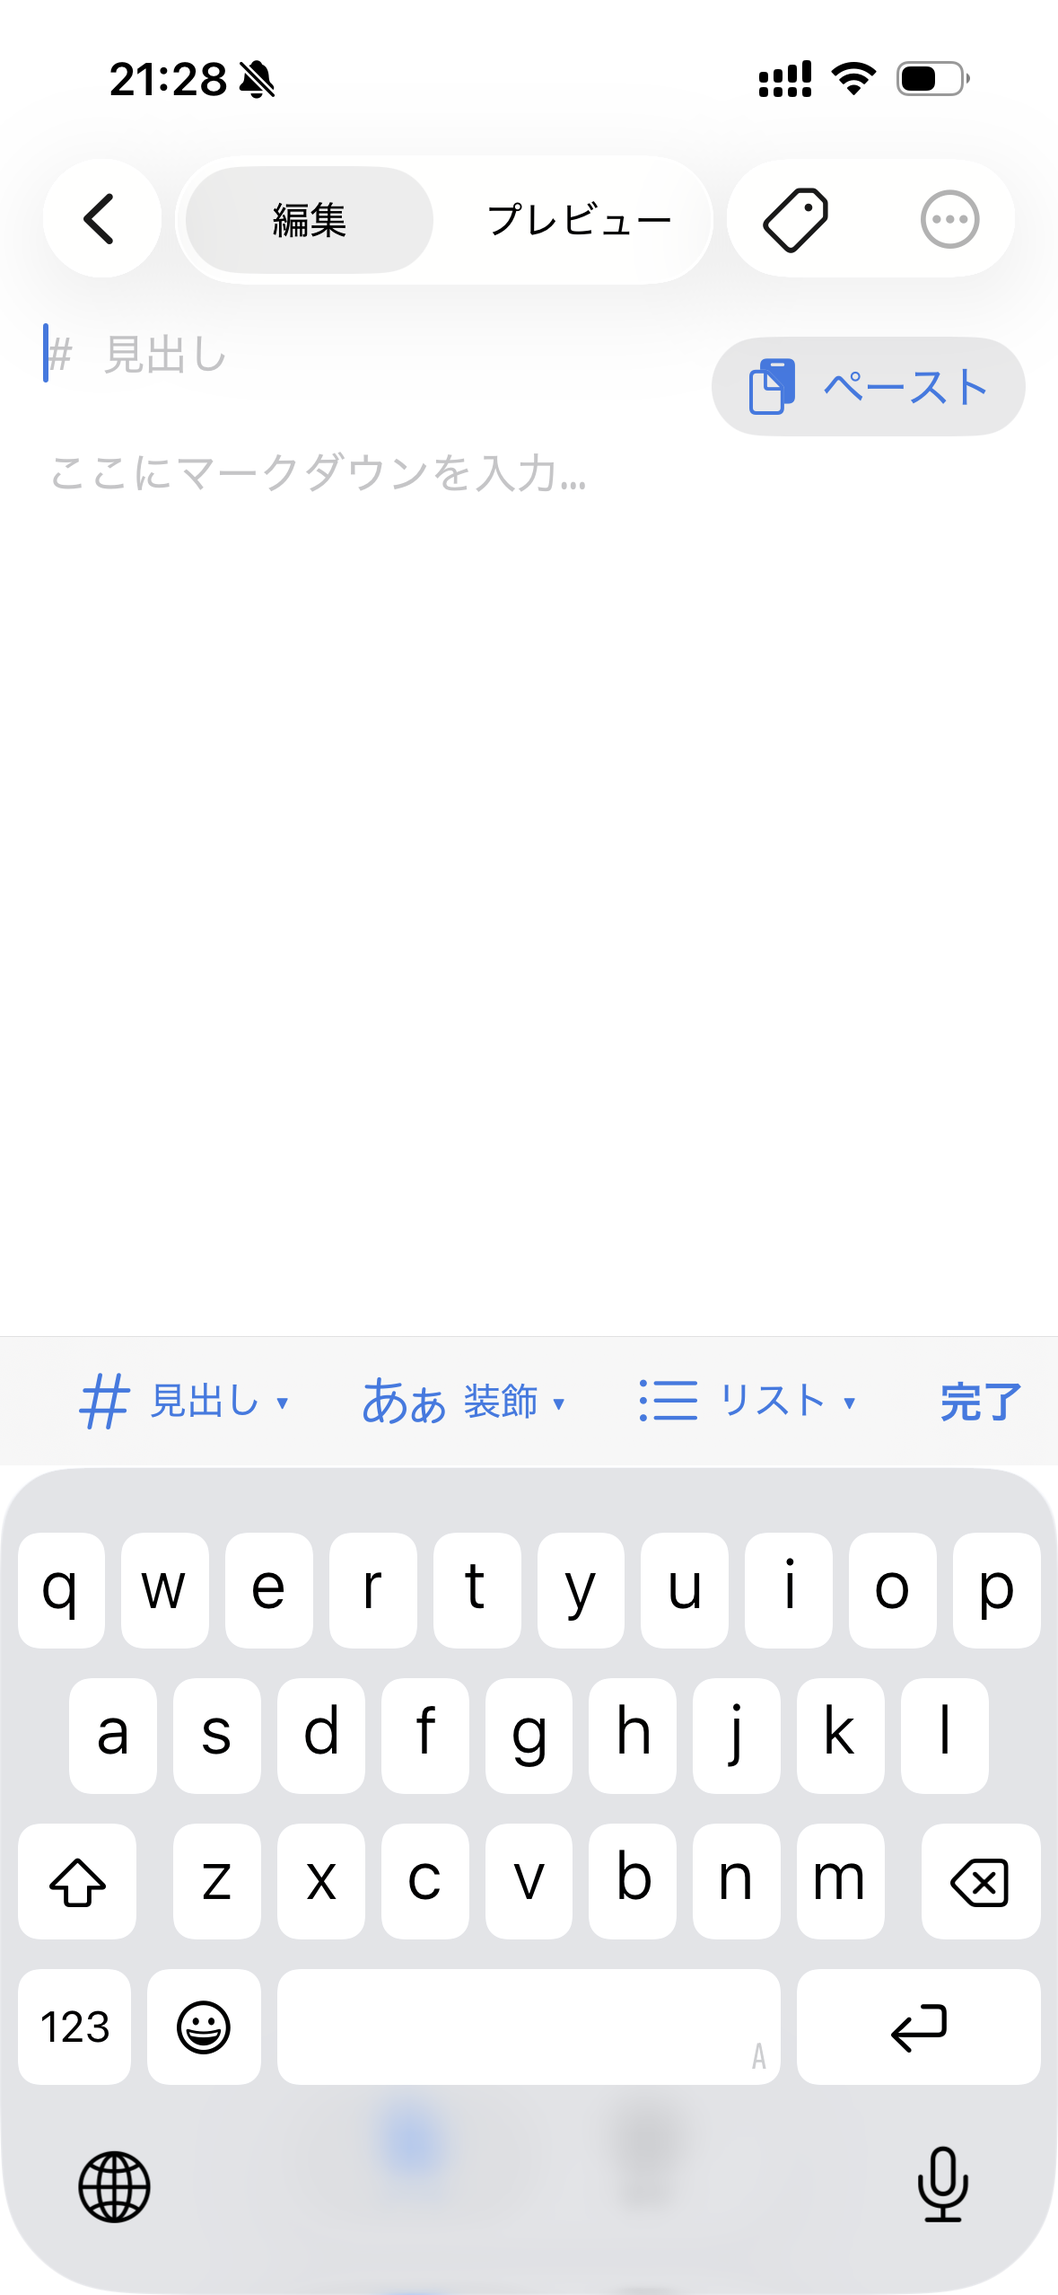
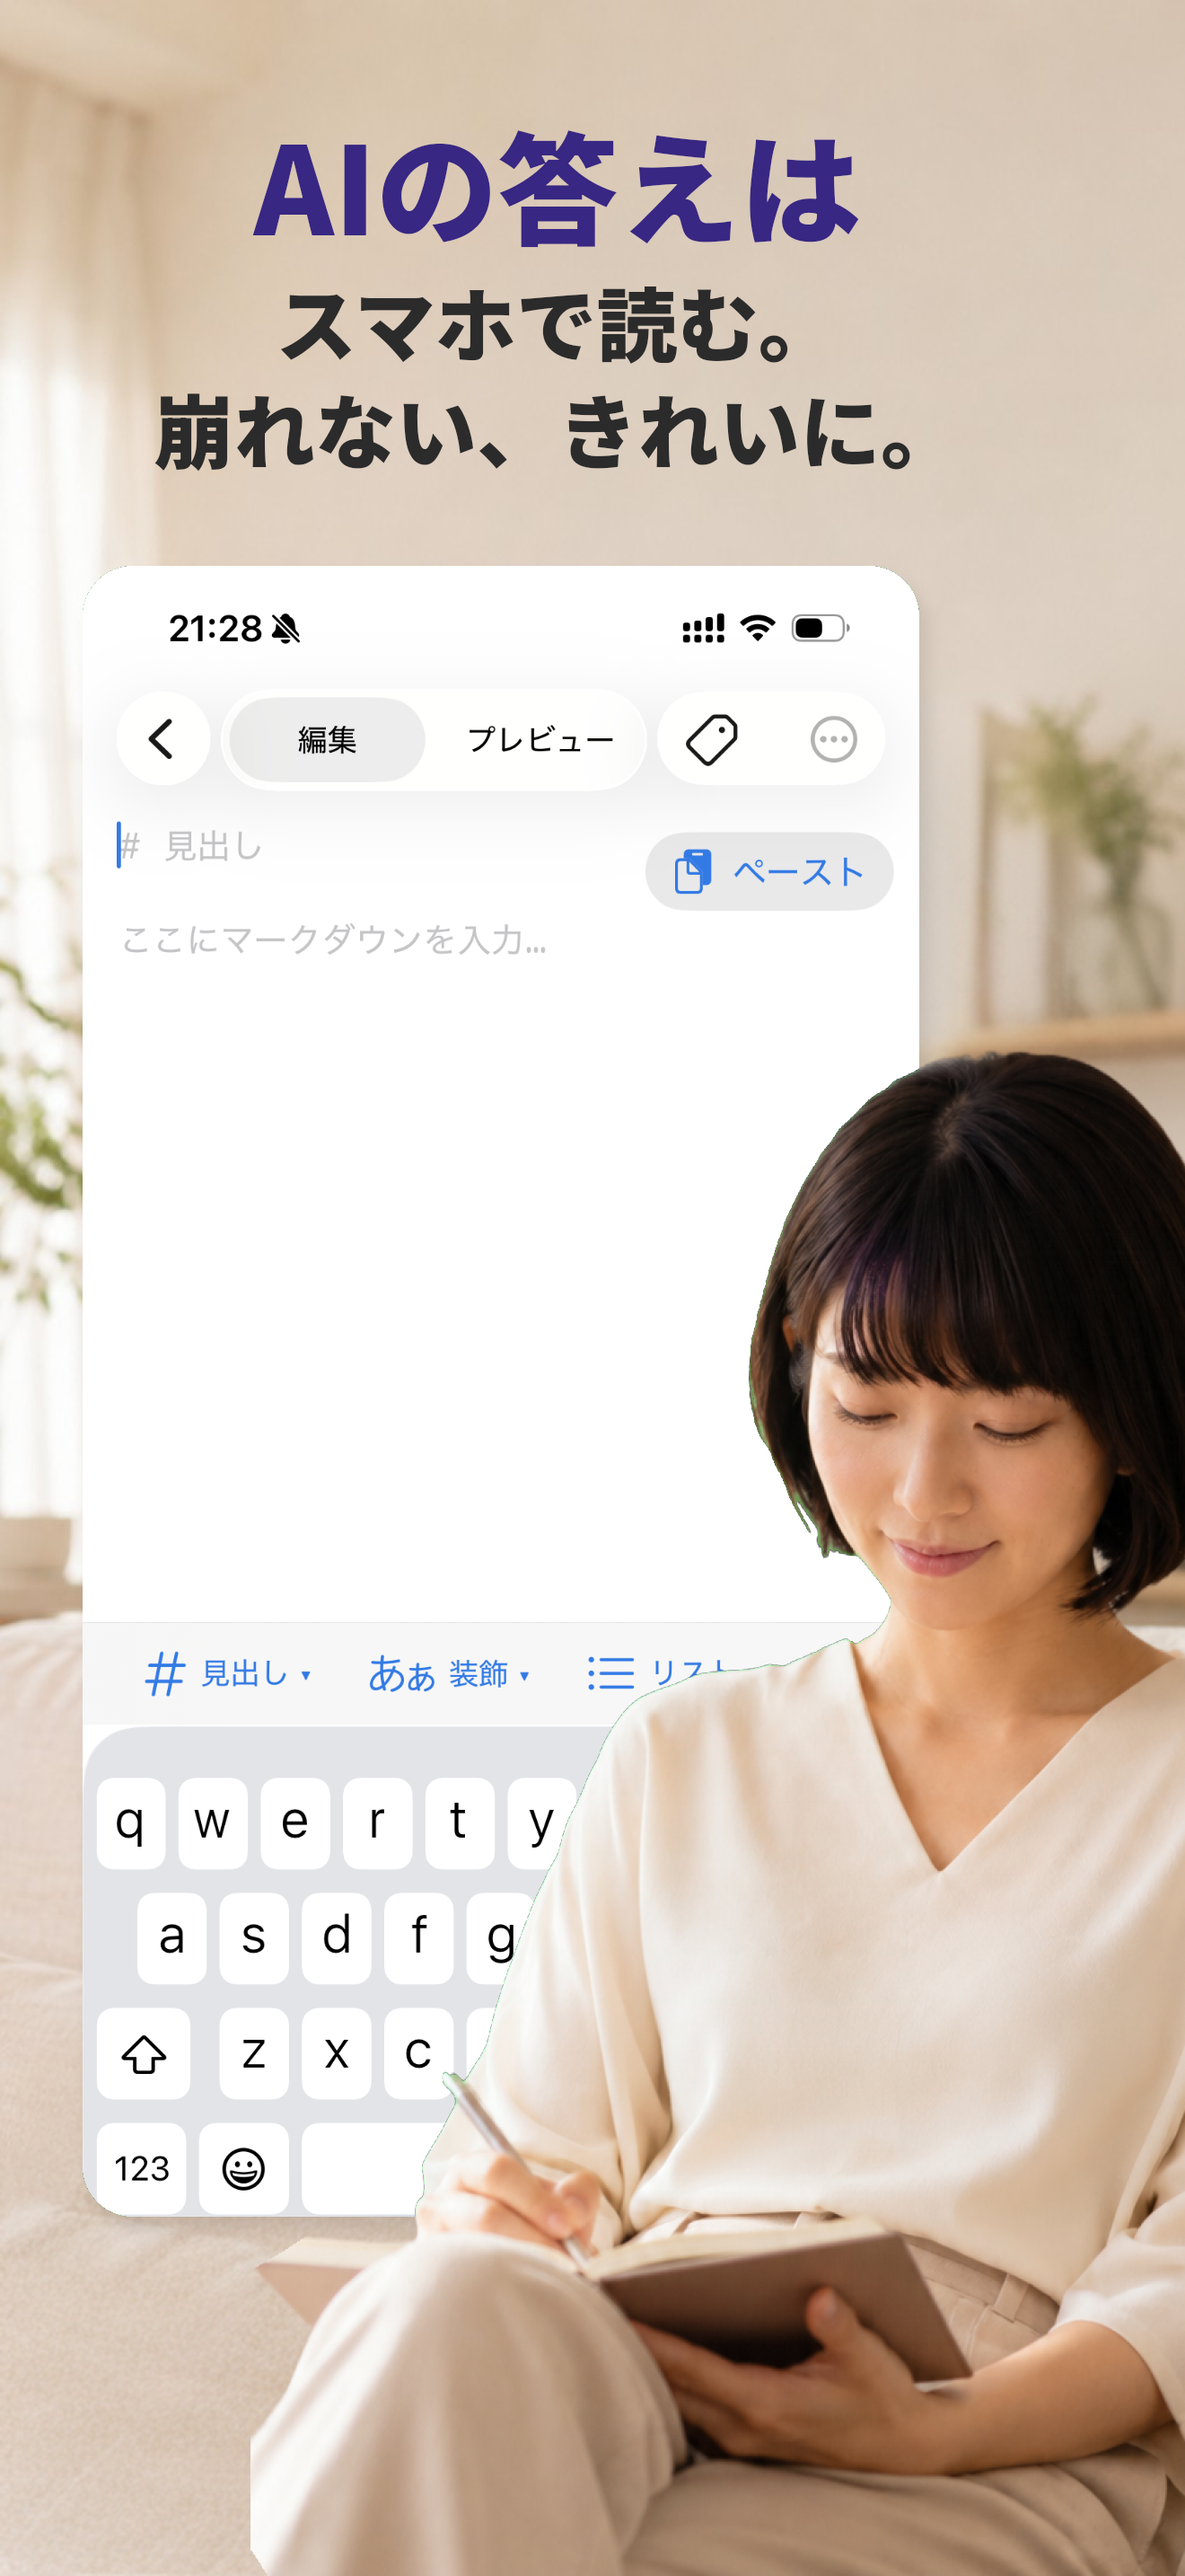
✨ feat(app): update MarkPad and SeeHue LP content and screenshots
Replace screenshot assets with higher-resolution images (1320×2868)
and adjust Shot component sizing (270px / 68vw) and remove border from
image style to match new assets.

MarkPad: swap hero screenshot from preview to editor screen, and update
first feature card to highlight the preview experience with revised copy.

SeeHue: expand FEATURES from 2 cards to 5 (SIMULATE & SHARE, INSPECT,
COMPARE, SELF-CHECK), remove the separate "MORE" text-card section, and
add 3 new screenshots (screen3–5) to cover the new feature cards.

diff --git a/app/seehue/page.tsx b/app/seehue/page.tsx
@@ -46,14 +46,14 @@ function Shot({
   priority?: boolean;
 }) {
   return (
-    <div className="w-[260px] max-w-[66vw] shrink-0">
+    <div className="w-[270px] max-w-[68vw] shrink-0">
       <Image
         src={`/contents/seehue/screen${n}.png`}
         alt={label}
-        width={1179}
-        height={2556}
+        width={1320}
+        height={2868}
         priority={priority}
-        className="h-auto w-full rounded-[26px] border border-[#ECE7DE] shadow-[0_20px_48px_rgba(42,46,51,0.16)]"
+        className="h-auto w-full rounded-[26px] shadow-[0_20px_48px_rgba(42,46,51,0.16)]"
       />
     </div>
   );
@@ -83,33 +83,32 @@ interface Feature {
 
 const FEATURES: Feature[] = [
   {
-    badge: "CORRECT",
-    heading: "見分けにくい色を、くっきりと。",
-    desc: "カメラの映像にリアルタイムで補正をかけ、見分けにくい色のコントラストを強調します。写真を読み込んで同じ補正をかけ、保存・共有することもできます。",
-    shot: 1,
-    alt: "補正カメラの画面",
-  },
-  {
-    badge: "SIMULATE",
-    heading: "見え方を、そのまま再現。",
-    desc: "「そのまま／補正／シミュレート」をワンタップで切り替え。色覚特性での見え方をシミュレートして、自分や相手にどう映るかを確かめられます。",
+    badge: "SIMULATE & SHARE",
+    heading: "見え方を、そのまま伝える。",
+    desc: "「そのまま／補正／シミュレート」をワンタップで切り替え。見えている色をそのまま再現して写真にすれば、家族や友だちに自分の見え方を伝えられます。",
     shot: 2,
-    alt: "色覚シミュレートの画面",
-  },
-];
-
-const MORE = [
-  {
-    k: "色を調べる",
-    v: "画面中央の色を、色名（赤・青緑など）と明るさ・鮮やかさで表示。保存した基準色とリアルタイムで照合でき、服や小物の色合わせに。",
+    alt: "見え方のシミュレートとシェアの画面",
   },
   {
-    k: "色覚セルフチェック",
-    v: "モザイク状の色を見分けるスライダー方式で、赤緑・青黄それぞれの見分けやすさを測定。結果に合わせて補正の強さが自動調整されます。",
+    badge: "INSPECT",
+    heading: "この色は、なに色？",
+    desc: "画面中央に写ったものの色を、色名（赤・青緑など）と明るさ・鮮やかさで表示。近い色の候補もわかるので、色の判断に迷ったときの相棒になります。",
+    shot: 3,
+    alt: "色名を調べるカラーピッカーの画面",
   },
   {
-    k: "パーソナライズ",
-    v: "1型（P型）・2型（D型）・3型（T型）に対応し、軸ごとに強さを調整。人や環境ごとに複数のプロファイルを作って切り替えられます。",
+    badge: "COMPARE",
+    heading: "保存して、その場で見くらべ。",
+    desc: "気になった色を保存しておけば、基準の色とカメラ映像をリアルタイムで照合。「同じ／似ている／ちがう」をその場で確認でき、服や小物の色合わせに便利です。",
+    shot: 4,
+    alt: "保存した色と見くらべる画面",
+  },
+  {
+    badge: "SELF-CHECK",
+    heading: "見分けやすさを、チェック。",
+    desc: "赤緑・青黄それぞれの見分けやすさをセルフチェックで測定し、結果に合わせて補正の強さを自動調整。1型・2型・3型に対応し、プロファイルも作れます。",
+    shot: 5,
+    alt: "色覚セルフチェックの画面",
   },
 ];
 
@@ -192,30 +191,6 @@ export default function Page() {
           </section>
         ))}
       </div>
-
-      {/* できること（テキストカード） */}
-      <section className="border-t border-[#ECE7DE] bg-white">
-        <div className="mx-auto max-w-[960px] px-5 py-16">
-          <p className="mb-10 text-center text-[15px] tracking-[0.04em] text-[#6E7378]">
-            まだまだ、これだけ。
-          </p>
-          <div className="flex flex-wrap justify-center gap-4">
-            {MORE.map((item) => (
-              <div
-                key={item.k}
-                className="min-w-[240px] flex-[1_1_260px] rounded-[16px] border border-[#ECE7DE] bg-[#FAF7F2] px-6 py-7"
-              >
-                <p className="mb-2 text-[16px] font-bold text-[#2A2E33]">
-                  {item.k}
-                </p>
-                <p className="text-[14px] leading-[1.85] text-[#6E7378]">
-                  {item.v}
-                </p>
-              </div>
-            ))}
-          </div>
-        </div>
-      </section>
 
       {/* CTA */}
       <section className="border-t border-[#ECE7DE] bg-[#FAF7F2] px-5 py-20 text-center">

diff --git a/app/markpad/page.tsx b/app/markpad/page.tsx
@@ -46,14 +46,14 @@ function Shot({
   priority?: boolean;
 }) {
   return (
-    <div className="w-[260px] max-w-[66vw] shrink-0">
+    <div className="w-[270px] max-w-[68vw] shrink-0">
       <Image
         src={`/contents/markpad/screen${n}.png`}
         alt={label}
-        width={1179}
-        height={2556}
+        width={1320}
+        height={2868}
         priority={priority}
-        className="h-auto w-full rounded-[26px] border border-[#E6E8EB] shadow-[0_20px_48px_rgba(31,35,40,0.14)]"
+        className="h-auto w-full rounded-[26px] shadow-[0_20px_48px_rgba(31,35,40,0.14)]"
       />
     </div>
   );
@@ -69,11 +69,11 @@ interface Feature {
 
 const FEATURES: Feature[] = [
   {
-    badge: "EDIT",
-    heading: "書くことに、集中できる。",
-    desc: "編集とプレビューはワンタップで切り替え。見出し・太字・リスト・チェックリスト・コードなどの編集ツールバーがキーボードの上に並び、スマホでもサッと書けます。",
-    shot: 1,
-    alt: "MarkPad の編集画面",
+    badge: "PREVIEW",
+    heading: "貼り付けて、すぐ美しく。",
+    desc: "AIが返す Markdown を貼り付ければ、見出し・リスト・表・図まで崩れずきれいに。編集とプレビューはワンタップで切り替えられ、スマホでもサッと読めます。",
+    shot: 2,
+    alt: "MarkPad のプレビュー画面",
   },
   {
     badge: "THEME",
@@ -149,7 +149,7 @@ export default function Page() {
           </p>
           <AppStoreBadge />
         </div>
-        <Shot n={2} label="MarkPad のプレビュー画面" priority />
+        <Shot n={1} label="MarkPad の編集画面" priority />
       </section>
 
       {/* オフライン・広告なし */}
